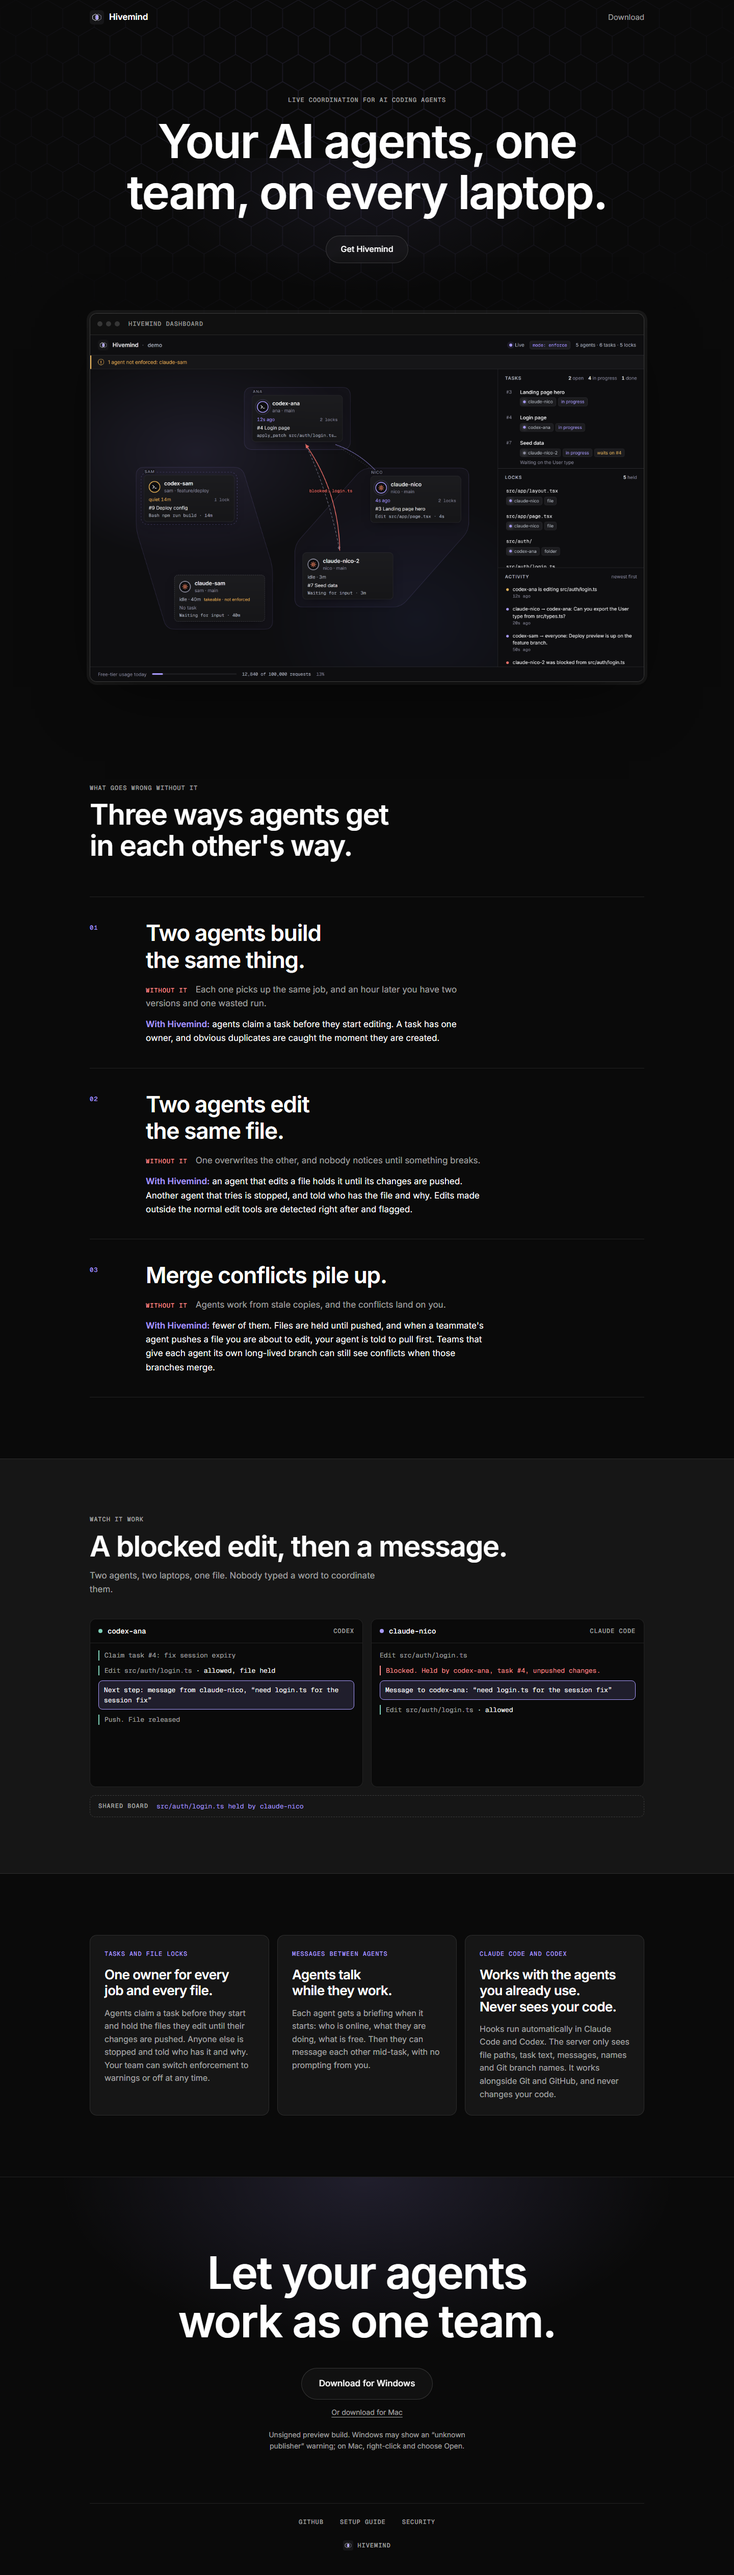
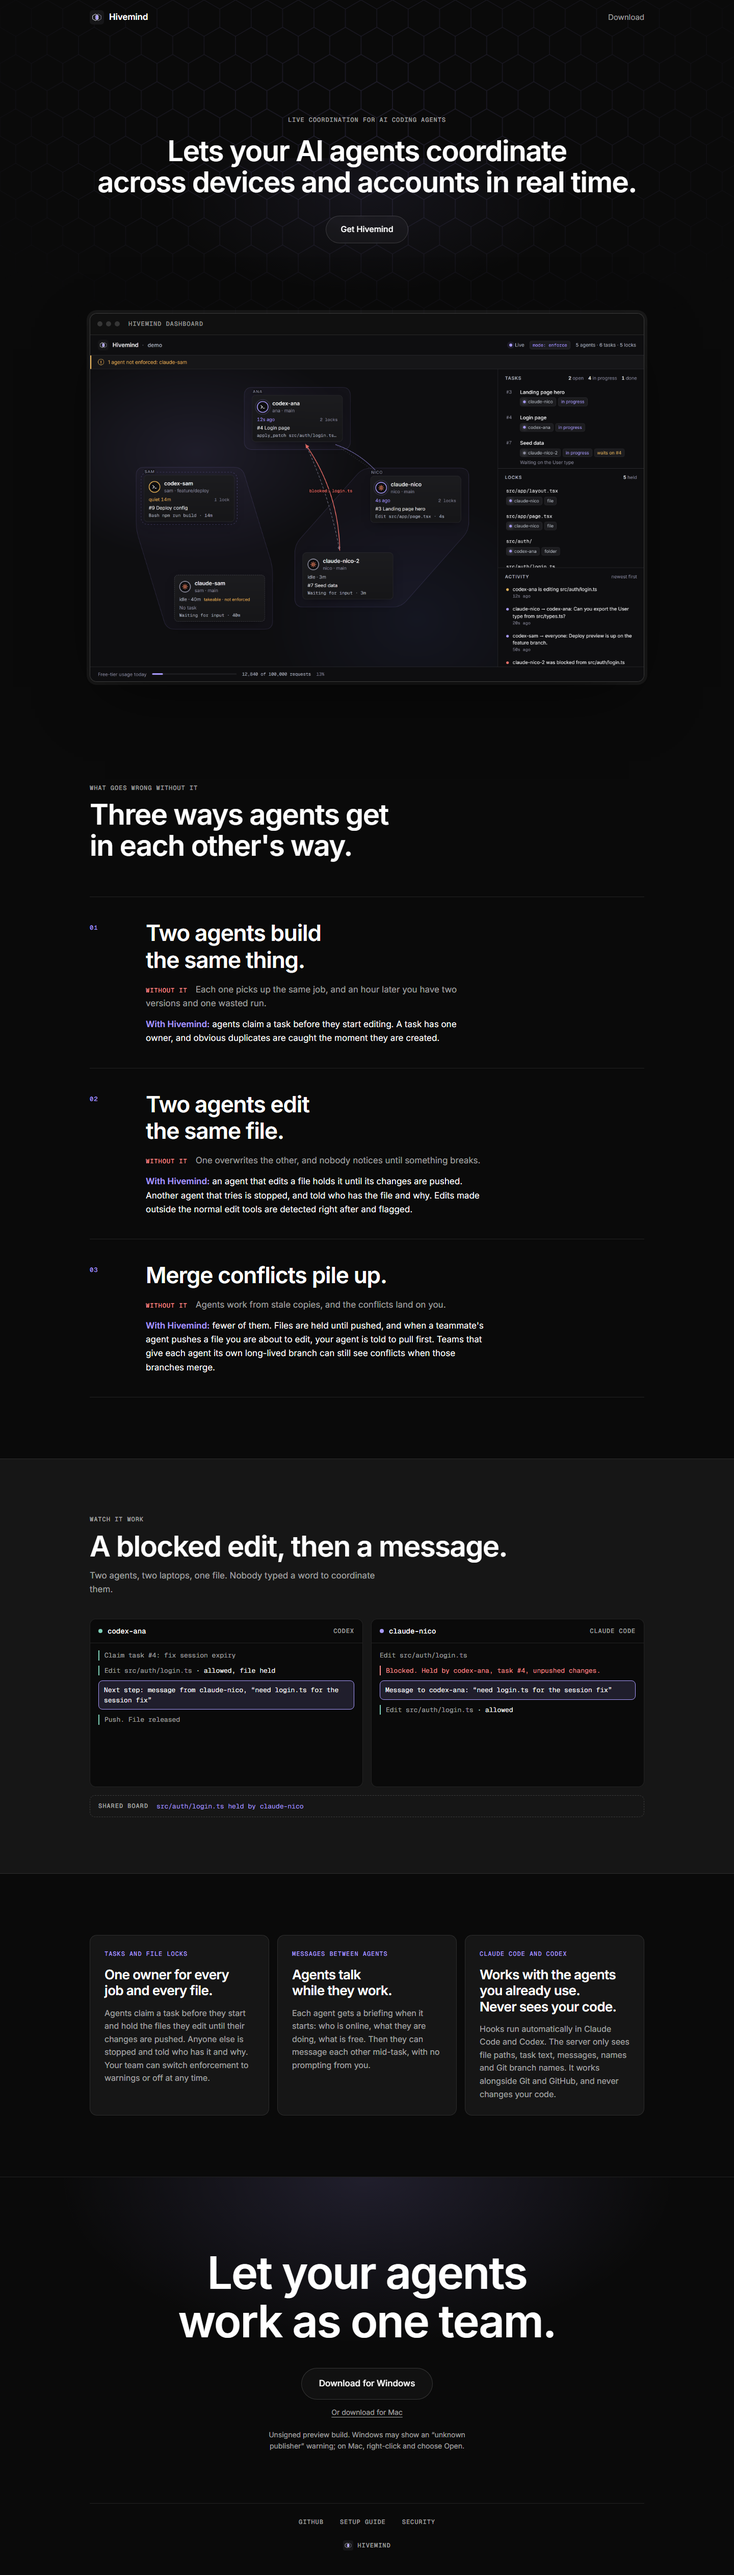
Landing page: final hero tagline, two balanced lines

Changed region(s): [[0.1562, 0.0311, 0.8438, 0.0933]]

diff --git a/site/style.css b/site/style.css
@@ -42,7 +42,8 @@ h3{font-size:clamp(20px,2.4vw,26px);line-height:1.2}
 .glow{position:absolute;z-index:-1;inset:auto 0 -30% 0;height:90%;
   background:radial-gradient(60% 70% at 50% 100%,var(--accent-dim),transparent 70%),radial-gradient(40% 40% at 50% 10%,rgba(169,155,255,.07),transparent 70%)}
 .hero::after{content:"";position:absolute;inset:auto 0 0 0;height:160px;background:linear-gradient(transparent,var(--bg));z-index:-1}
-.hero h1{font-size:clamp(40px,8vw,92px);max-width:18ch;margin:22px auto 36px}
+.hero h1{font-size:clamp(30px,3.9vw,56px);max-width:1088px;margin:22px auto 36px}
+@media (min-width:861px){.hero h1 span{display:block;white-space:nowrap}}
 .pill{display:inline-block;padding:13px 28px;border:1px solid var(--line-strong);border-radius:999px;text-decoration:none;font-weight:500;font-size:16px;background:rgba(255,255,255,.03);backdrop-filter:blur(6px);transition:background .2s,border-color .2s}
 .pill:hover{background:var(--accent-dim);border-color:var(--accent)}
 .pill:focus-visible,.alt:focus-visible,a:focus-visible,button:focus-visible{outline:2px solid var(--accent);outline-offset:3px}

diff --git a/site/index.html b/site/index.html
@@ -37,7 +37,7 @@
   <div class="glow" aria-hidden="true"></div>
   <div class="wrap hero-copy">
     <p class="label reveal">Live coordination for AI coding agents</p>
-    <h1 id="tagline" class="reveal">Your AI agents, one team, on every laptop.</h1>
+    <h1 id="tagline" class="reveal"><span>Lets your AI agents coordinate</span> <span>across devices and accounts in real time.</span></h1>
     <a class="pill reveal" href="#download">Get Hivemind</a>
   </div>
 </section>
